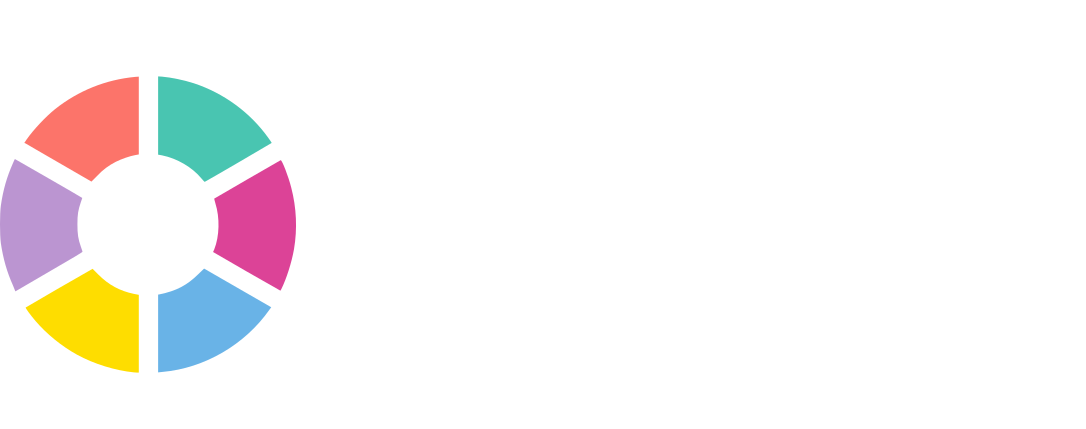
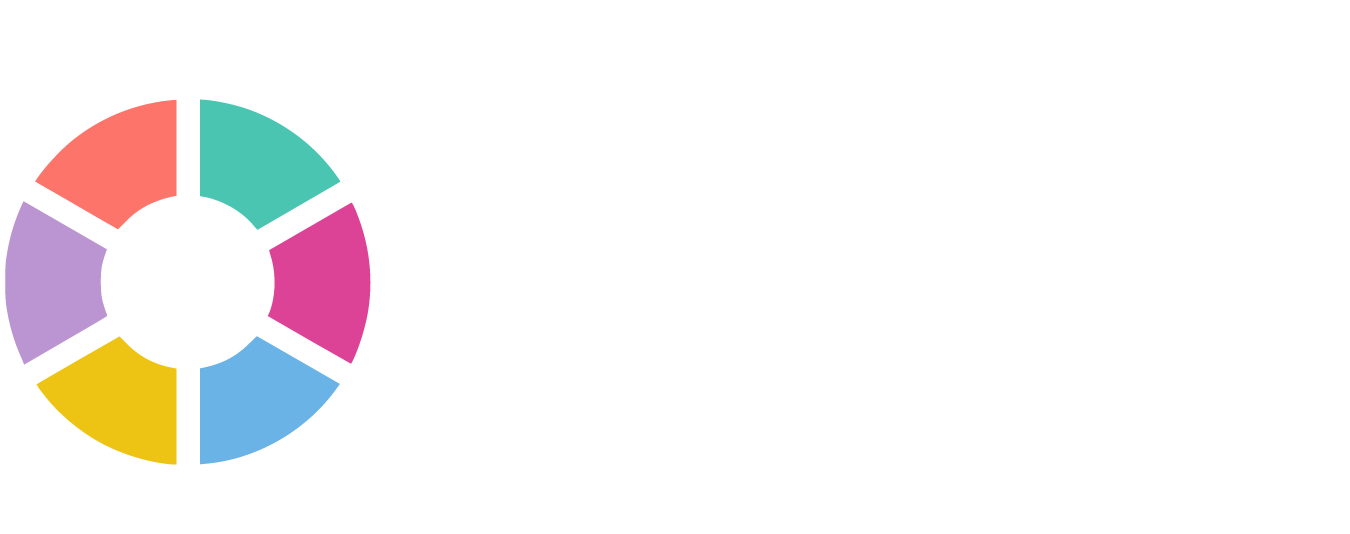
Updated yellow

diff --git a/hub.1.0.5/src/components/Brands/BrandHorizontal.js b/hub.1.0.5/src/components/Brands/BrandHorizontal.js
@@ -16,7 +16,7 @@ const BrandHorizontal = props =>
 						<path fill="#49C5B1" d="M98.7,84.4c-4-4.9-10.7-8.8-17.2-10.1L79.8,74V57v-17l1.7,0.1 c3.9,0.3,9.9,1.6,13.9,2.9c13,4.3,24.5,12.7,32.4,23.8c0.8,1.1,1.4,2,1.4,2.1c0,0.1-28.9,16.9-29.1,16.9 C100,85.9,99.4,85.2,98.7,84.4z" />
 						<path fill="#DC4397" d="M118.4,124.8l-14.7-8.5l0.5-1.1c2.3-5.7,2.5-13.8,0.5-20.1 c-0.3-1-0.5-1.9-0.5-2c0.2-0.2,28.7-16.6,28.9-16.7c0.6-0.1,3.4,7.1,4.6,11.9c2.3,8.8,2.7,18,1.2,26.8c-1,5.7-3.3,12.9-5.5,17.3 l-0.4,0.7L118.4,124.8z" />
 						<path fill="#69B3E7" d="M79.8,151.7v-16.9l0.6-0.1c7.3-1.5,11.9-3.9,16.8-8.7l2.6-2.5 l14.6,8.4l14.6,8.4l-0.8,1.1c-10.6,15.1-28.2,25.4-46.5,27l-1.9,0.2L79.8,151.7z" />
-						<path fill="#FEDD00" d="M69.3,168.6c-8.2-0.8-17.5-3.7-24.8-7.7 c-6.7-3.7-13.2-9-18-14.6c-2.3-2.7-4.5-5.7-4.3-5.9c0.1-0.1,6.7-3.9,14.6-8.5l14.5-8.3l2.5,2.5c4.5,4.5,9.3,7.1,15.5,8.4l2.1,0.4 v16.9v16.9l-0.7,0C70.4,168.7,69.7,168.6,69.3,168.6L69.3,168.6z" />
+						<path fill="#edc414" d="M69.3,168.6c-8.2-0.8-17.5-3.7-24.8-7.7 c-6.7-3.7-13.2-9-18-14.6c-2.3-2.7-4.5-5.7-4.3-5.9c0.1-0.1,6.7-3.9,14.6-8.5l14.5-8.3l2.5,2.5c4.5,4.5,9.3,7.1,15.5,8.4l2.1,0.4 v16.9v16.9l-0.7,0C70.4,168.7,69.7,168.6,69.3,168.6L69.3,168.6z" />
 					</g>
 					<g className="letterforms">
 						<path d="M196.4,11.9h-10.6v31.2h-6.1V11.9h-10.5V6.8h27.2L196.4,11.9 z" />

diff --git a/hub.1.0.5/src/components/Brands/BrandLogoOnly.js b/hub.1.0.5/src/components/Brands/BrandLogoOnly.js
@@ -16,7 +16,7 @@ const BrandLogoOnly = props =>
 						<path fill="#49C5B1" d="M98.7,84.4c-4-4.9-10.7-8.8-17.2-10.1L79.8,74V57v-17l1.7,0.1 c3.9,0.3,9.9,1.6,13.9,2.9c13,4.3,24.5,12.7,32.4,23.8c0.8,1.1,1.4,2,1.4,2.1c0,0.1-28.9,16.9-29.1,16.9 C100,85.9,99.4,85.2,98.7,84.4z" />
 						<path fill="#DC4397" d="M118.4,124.8l-14.7-8.5l0.5-1.1c2.3-5.7,2.5-13.8,0.5-20.1 c-0.3-1-0.5-1.9-0.5-2c0.2-0.2,28.7-16.6,28.9-16.7c0.6-0.1,3.4,7.1,4.6,11.9c2.3,8.8,2.7,18,1.2,26.8c-1,5.7-3.3,12.9-5.5,17.3 l-0.4,0.7L118.4,124.8z" />
 						<path fill="#69B3E7" d="M79.8,151.7v-16.9l0.6-0.1c7.3-1.5,11.9-3.9,16.8-8.7l2.6-2.5 l14.6,8.4l14.6,8.4l-0.8,1.1c-10.6,15.1-28.2,25.4-46.5,27l-1.9,0.2L79.8,151.7z" />
-						<path fill="#FEDD00" d="M69.3,168.6c-8.2-0.8-17.5-3.7-24.8-7.7 c-6.7-3.7-13.2-9-18-14.6c-2.3-2.7-4.5-5.7-4.3-5.9c0.1-0.1,6.7-3.9,14.6-8.5l14.5-8.3l2.5,2.5c4.5,4.5,9.3,7.1,15.5,8.4l2.1,0.4 v16.9v16.9l-0.7,0C70.4,168.7,69.7,168.6,69.3,168.6L69.3,168.6z" />
+						<path fill="#edc414" d="M69.3,168.6c-8.2-0.8-17.5-3.7-24.8-7.7 c-6.7-3.7-13.2-9-18-14.6c-2.3-2.7-4.5-5.7-4.3-5.9c0.1-0.1,6.7-3.9,14.6-8.5l14.5-8.3l2.5,2.5c4.5,4.5,9.3,7.1,15.5,8.4l2.1,0.4 v16.9v16.9l-0.7,0C70.4,168.7,69.7,168.6,69.3,168.6L69.3,168.6z" />
 					</g>
 				</g>
 			</svg>
